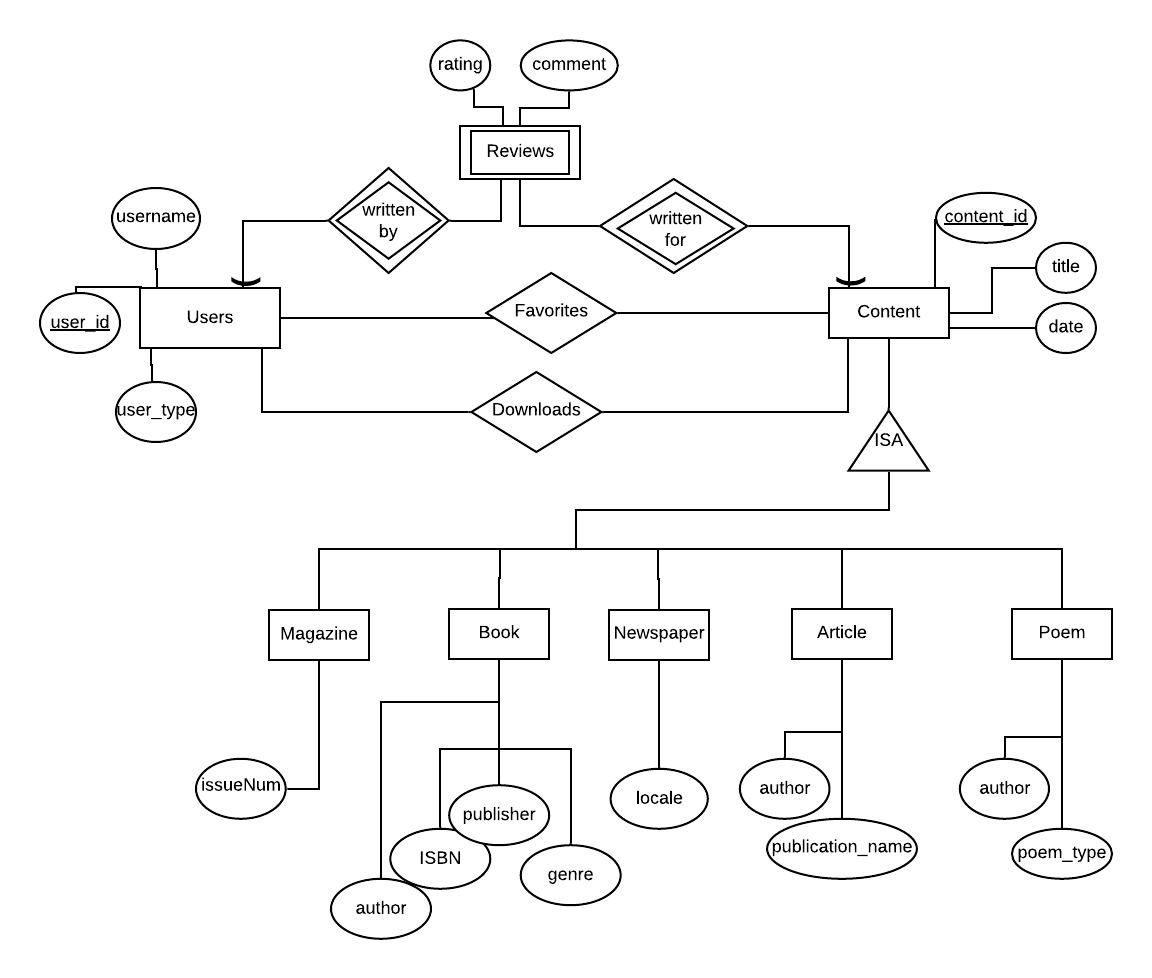
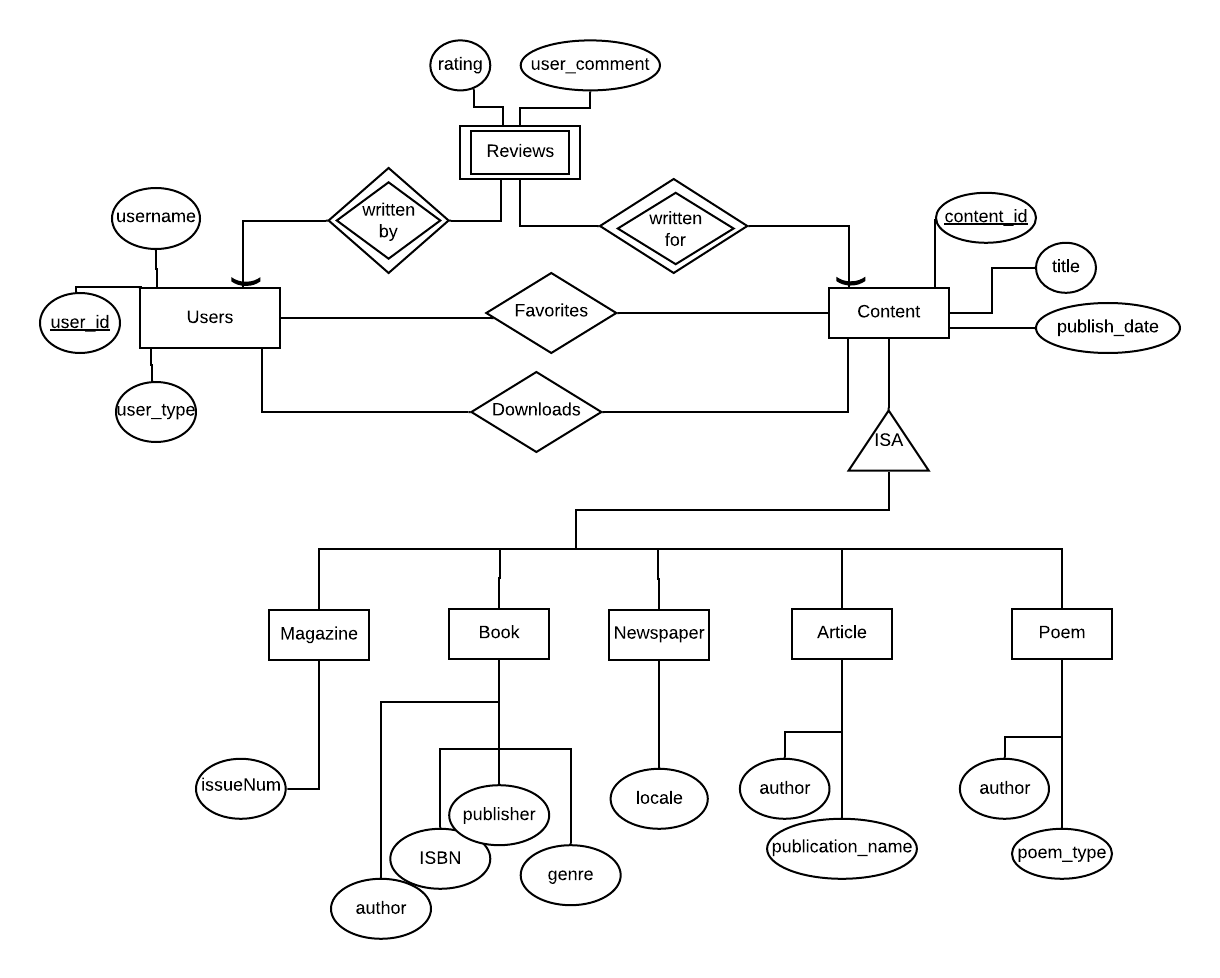
Final edits and revisions to doc

diff --git a/doc/db-design/db-design-revision.tex b/doc/db-design/db-design-revision.tex
@@ -28,9 +28,9 @@
 			\item Favorites(\underline{user\_id}, \underline{content\_id})
 			\item Downloads(\underline{user\_id}, \underline{content\_id} )
 			\item Content(\underline{content\_id}, title, publish\_date)
-			\item Article(\underline{conent\_id}, author, publication\_name)
+			\item Article(\underline{content\_id}, author, publication\_name)
 			\item Magazine(\underline{content\_id}, issueNum)
-			\item Book(\underline{content\_id}, ISBN, author, genre)
+			\item Book(\underline{content\_id}, ISBN, author, genre, publisher)
 			\item Newspaper(\underline{content\_id}, locale)
 			\item Poem(\underline{content\_id}, poem\_type, author)
 		\end{itemize}
@@ -63,9 +63,9 @@
 			Users are defined as those who have a valid account login for the website.
 			The attributes for Users are as follows:
 			\begin{itemize}
-				\item type: A user can be of two types, admin or regular. Admins have special privileges
+				\item user\_type: A user can be of two types, admin or regular. Admins have special privileges
 				\item username: The unique username by which a user logs into the web application
-				\item userID: the unique identifier by which a user's information is tracked
+				\item user\_id: the unique identifier by which a user's information is tracked
 			\end{itemize}
 		\subsection{Content}
 				Content comes in many forms. There are four subclasses of Content, but it possible that there exist an item that is only classifiable as Content and none of its subclasses. 
@@ -74,7 +74,7 @@
 			\begin{itemize}
 				\item content\_id: The unique content identifier
 				\item title: The name/title of the content
-				\item date: The date the content was published, if available
+				\item publish\_date: The date the content was published, if available
 			\end{itemize}
 			\subsection{Books}
 				Books are a special case of Content. They have special attributes which sets them apart; however, books inherit the primary key from content. In addition, books have the following attributes:
@@ -92,26 +92,26 @@
 			\subsection{Newspapers} 
 				Newspapers are a special case of Content. They have special attributes which sets them apart; however, Newspapers inherit the primary key from content. In addition, magazines have the following attributes:
 			\begin{itemize}
-				\item location: the locality of a Newspaper, if available.
-				\item publication: the name of the newspaper publication
+				\item locale: the locality of a Newspaper, if available.
 			\end{itemize}	
 			\subsection{Articles}		
 			Articles are standalone pieces of writing which may, in some cases, be significant enough to publish on the web application as it's own piece of media. Articles inherit the primary key from Content but have additional relationships, as described in the relationships section. Articles also have the following additional attributes:
 			\begin{itemize}
 				\item author: the author of the article
+				\item publication\_name: the name of the publication where the article is from.
 			\end{itemize}
 		\subsection{Poems}		
 			Poems are a specialized form of content, usually artistic in nature. Poems inherit the primary key from Content but have additional attributes, as described in the relationships section. Articles also have the following additional attributes:
 			\begin{itemize}
 				\item author: the author of the poem (if available)
-				\item type: the type of poem (ballad, epic, prose, haiku, etc.)
+				\item poem\_type: the type of poem (ballad, epic, prose, haiku, etc.)
 			\end{itemize}
 					
 			\subsection{Reviews}
 			Reviews are the way by which users rate their satisfaction with a particular piece of content. Reviews are a weak entity set due to the reliance on the primary keys from its relationships with User and Content, as described in the relationship section. Reviews consist of the following attributes:
 			\begin{itemize}
 				\item rating: the star rating given (out of 5)
-				\item comment: the comment left in addition to the rating (optional)
+				\item user\_comment: the comment left in addition to the rating (optional)
 			\end{itemize}
 
 	\section{Relationships}
